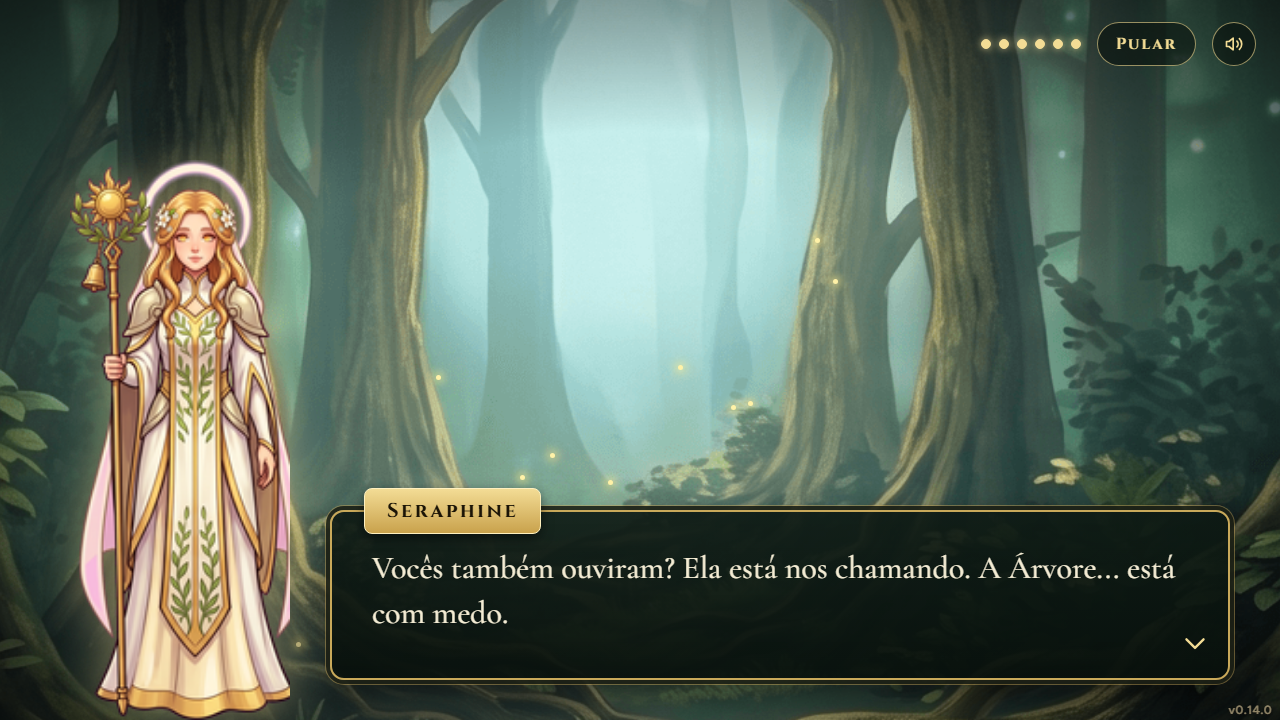
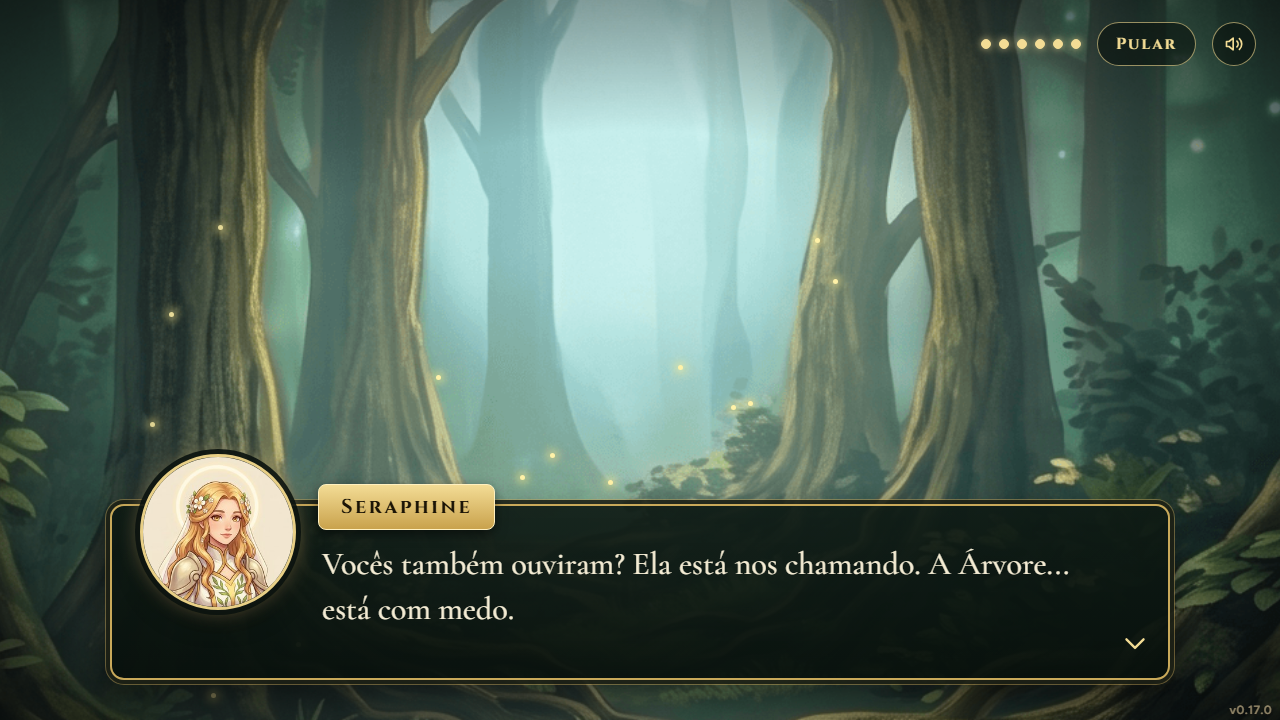
docs(story-scenes): UI review revision 4, APROVADO

Changed region(s): [[0.0312, 0.2139, 0.9062, 1.0], [0.875, 0.7028, 0.9688, 0.9472], [0.9688, 0.9778, 1.0, 1.0]]

diff --git a/.specs/features/story-scenes/ui-review.html b/.specs/features/story-scenes/ui-review.html
@@ -415,6 +415,17 @@ footer { color: var(--sage-soft); text-align: center; font-size: 13px; opacity: 
     </section>
 
     <section class="panel">
+        <h2>Revisão 4 · <span class="chip ok">APROVADO</span></h2>
+        <ul class="checks">
+            <li><span class="mark">✔</span><span>Os cinco rostos novos (256×256) estão centralizados no círculo de 156 px e nítidos; o achado #3 (Kael descentralizado) está fechado.</span></li>
+            <li><span class="mark">✔</span><span>Fala 6 do prólogo (Seraphine) usa a caixa de rosto redonda, idêntica à do capítulo 1: círculo com borda dourada à esquerda, plaqueta em 206 px, texto com recuo de 210 px. O retrato de corpo inteiro sumiu.</span></li>
+            <li><span class="mark">✔</span><span>Fala 7 do capítulo 1 lê "Deixe de reclamar, espião. Avançamos ao amanhecer!", como na spec R4-3; cabe em uma linha, sem corte.</span></li>
+            <li><span class="mark">✦</span><span>Achados novos: nenhum. Os achados #1, #2 e #4 acima não mudaram nesta revisão.</span></li>
+        </ul>
+        <figure style="margin:0 0 12px"><a href="ui-review/08-character-desktop.png" target="_blank"><img src="ui-review/08-character-desktop.png" alt="Prólogo, fala 6 (Seraphine) na caixa de rosto redonda" style="max-width:100%"></a><figcaption>Prólogo, fala 6 (Seraphine) na caixa de rosto redonda</figcaption></figure><figure style="margin:0 0 12px"><a href="ui-review/17-ch1-kael-desktop.png" target="_blank"><img src="ui-review/17-ch1-kael-desktop.png" alt="Capítulo 1, Kael" style="max-width:100%"></a><figcaption>Capítulo 1, Kael</figcaption></figure><figure style="margin:0 0 12px"><a href="ui-review/17b-ch1-lyra-desktop.png" target="_blank"><img src="ui-review/17b-ch1-lyra-desktop.png" alt="Capítulo 1, Lyra" style="max-width:100%"></a><figcaption>Capítulo 1, Lyra</figcaption></figure><figure style="margin:0 0 12px"><a href="ui-review/18-ch1-orina-desktop.png" target="_blank"><img src="ui-review/18-ch1-orina-desktop.png" alt="Capítulo 1, Orina" style="max-width:100%"></a><figcaption>Capítulo 1, Orina</figcaption></figure><figure style="margin:0 0 12px"><a href="ui-review/18b-ch1-seraphine-desktop.png" target="_blank"><img src="ui-review/18b-ch1-seraphine-desktop.png" alt="Capítulo 1, Seraphine" style="max-width:100%"></a><figcaption>Capítulo 1, Seraphine</figcaption></figure><figure style="margin:0 0 12px"><a href="ui-review/19-ch1-vex-desktop.png" target="_blank"><img src="ui-review/19-ch1-vex-desktop.png" alt="Capítulo 1, Vex" style="max-width:100%"></a><figcaption>Capítulo 1, Vex</figcaption></figure><figure style="margin:0 0 12px"><a href="ui-review/20-ch1-dawn-desktop.png" target="_blank"><img src="ui-review/20-ch1-dawn-desktop.png" alt="Capítulo 1, fala 7 (Kael) com o texto novo" style="max-width:100%"></a><figcaption>Capítulo 1, fala 7 (Kael) com o texto novo</figcaption></figure>
+    </section>
+
+    <section class="panel">
         <h2>Console e recursos</h2>
         <p class="empty">Nenhum recurso faltando: todas as imagens carregaram nas capturas (o script não coleta o console).</p>
     </section>
